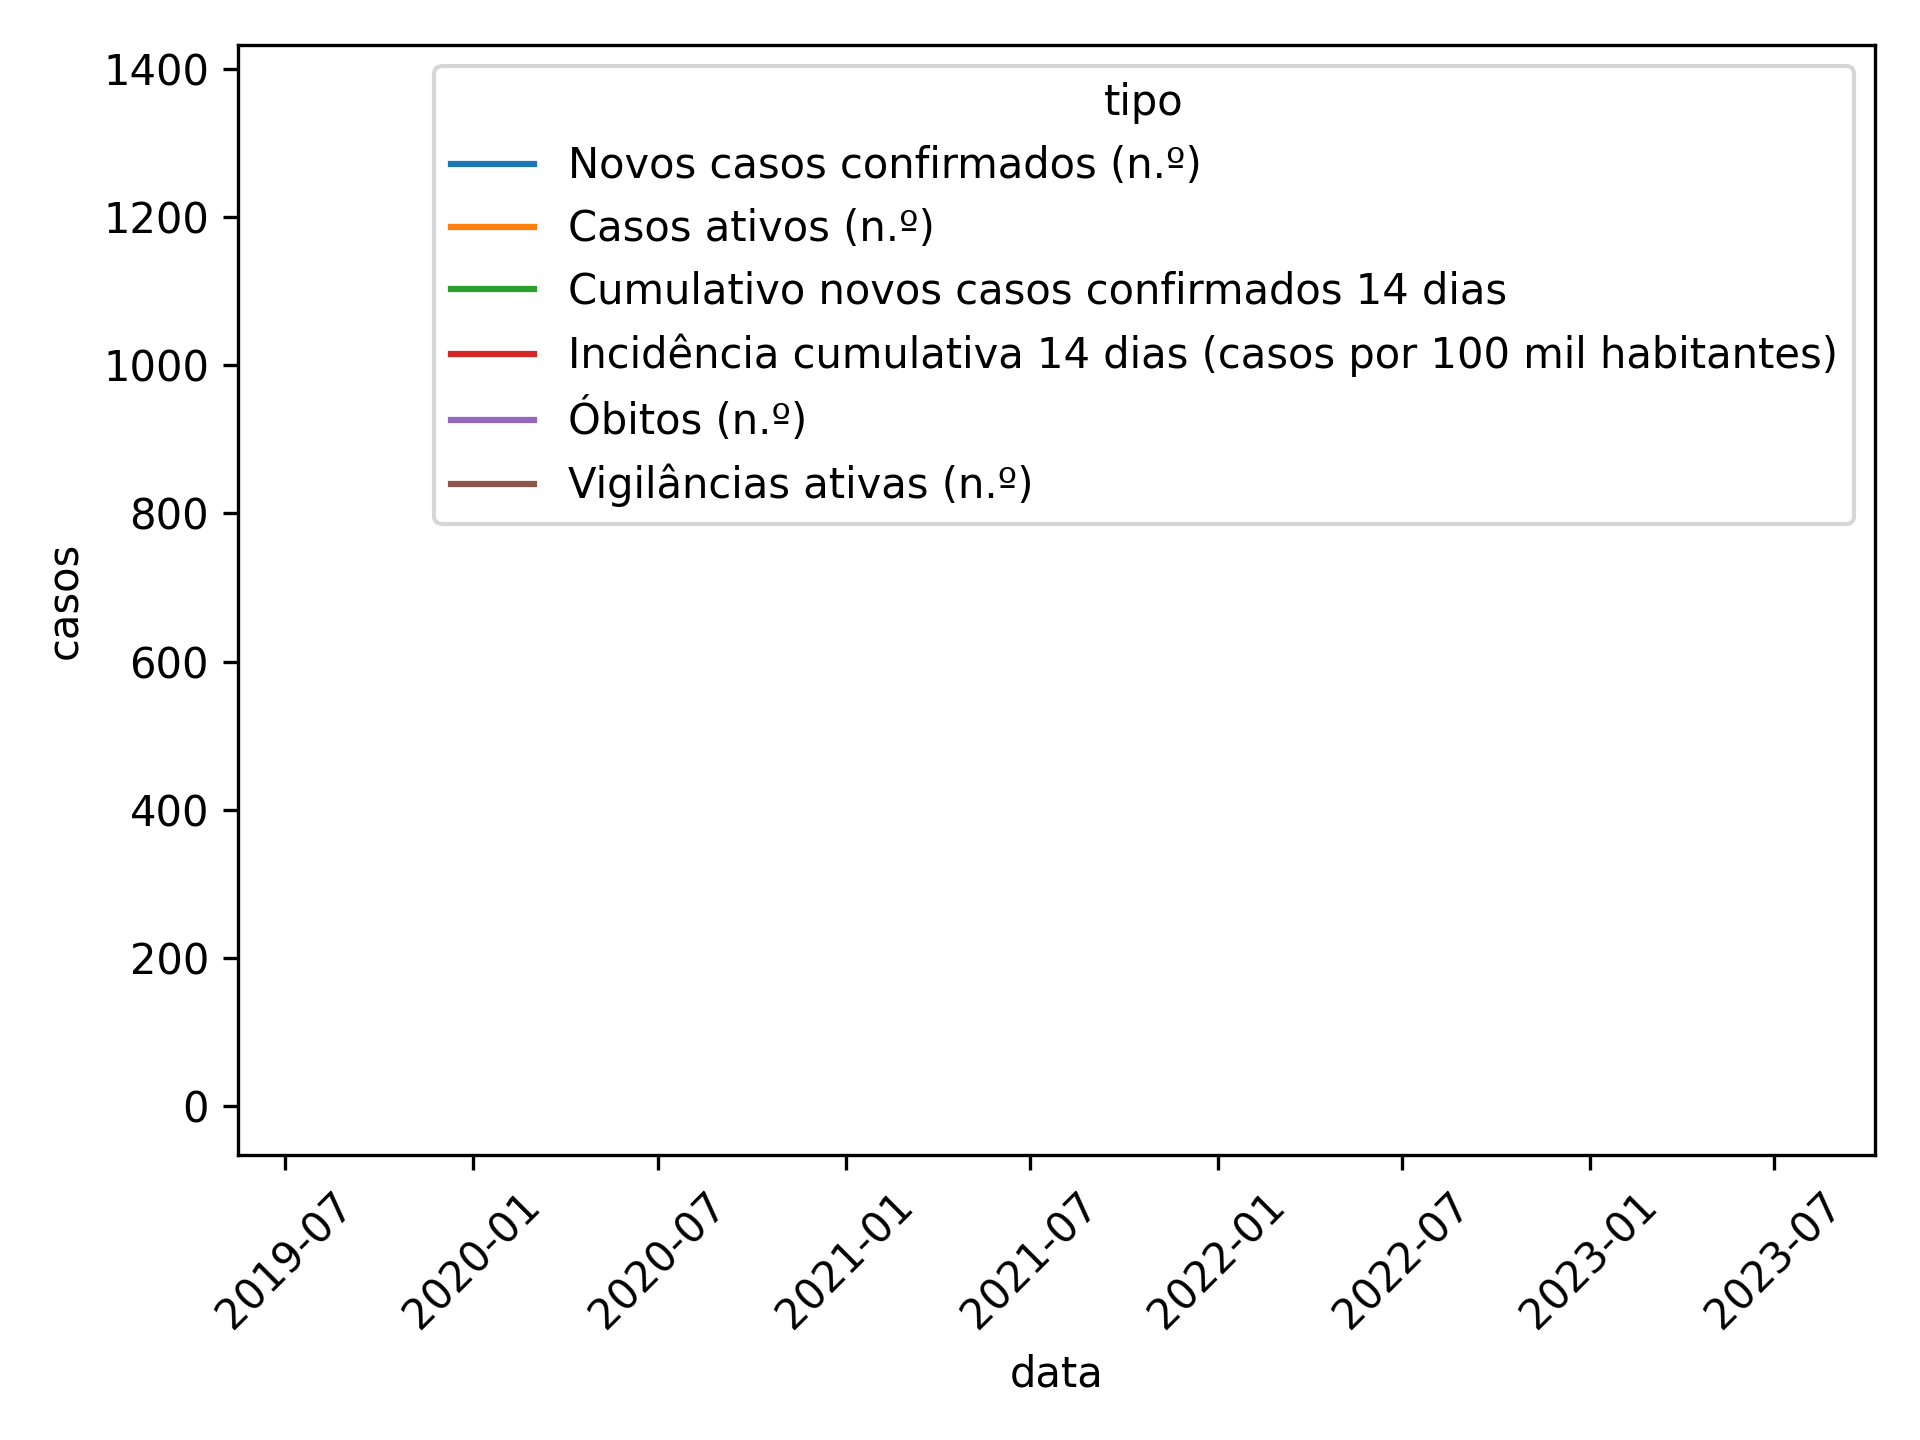
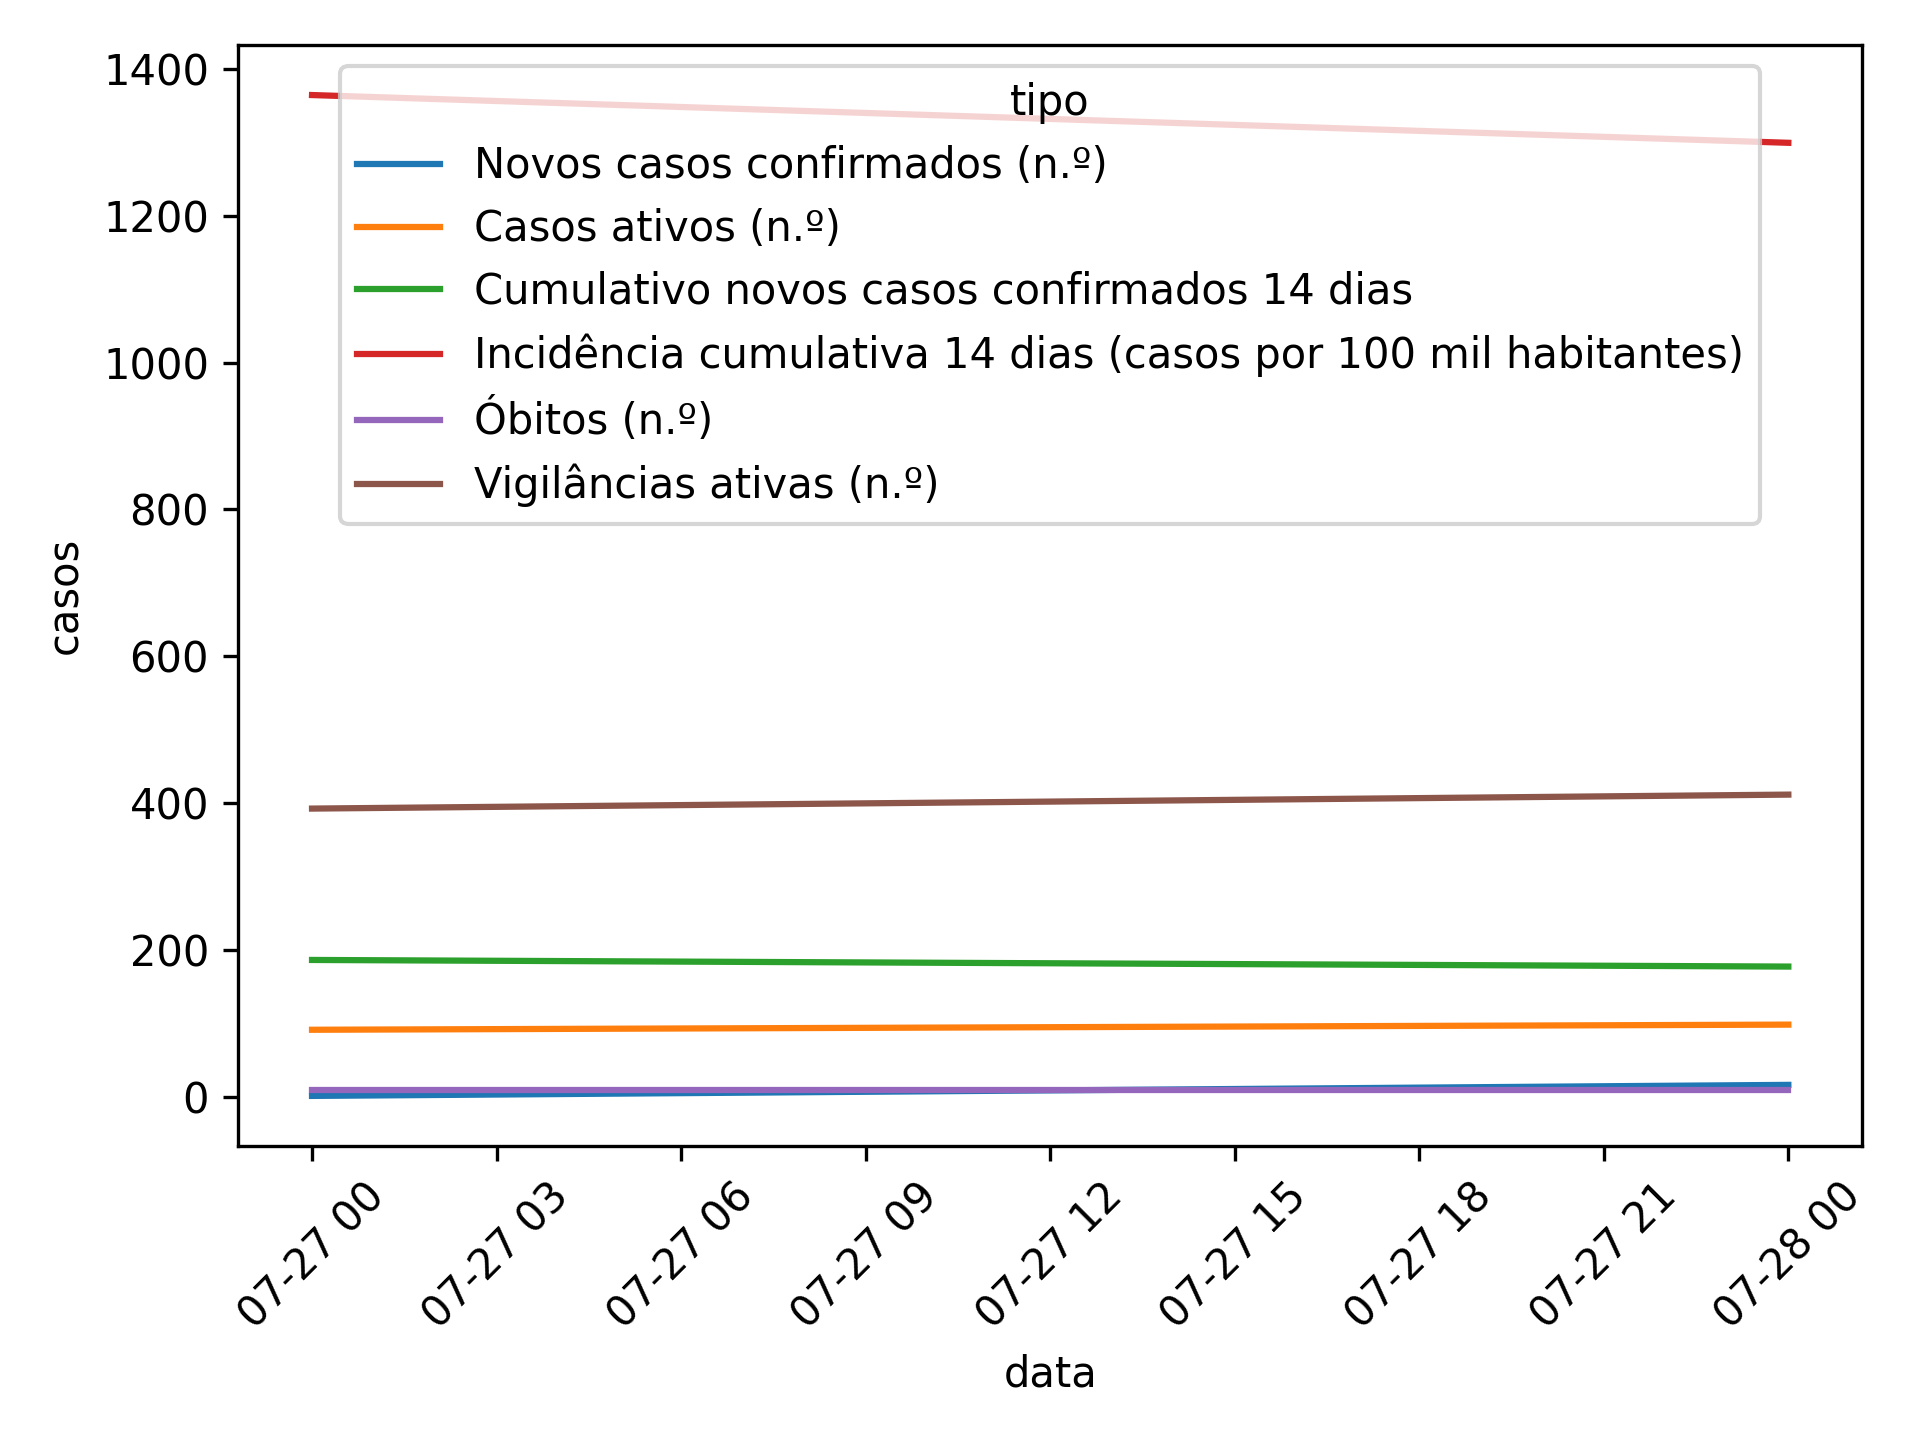
Apply automatic changes

diff --git a/README.md b/README.md
@@ -3,3 +3,4 @@
 | data       |   Novos casos confirmados (n.º) |   Casos ativos (n.º) |   Cumulativo novos casos confirmados 14 dias |   Incidência cumulativa 14 dias (casos por 100 mil habitantes) |   Óbitos (n.º) |   Vigilâncias ativas (n.º) |
 |:-----------|--------------------------------:|---------------------:|---------------------------------------------:|---------------------------------------------------------------:|---------------:|---------------------------:|
 | 27-07-2021 |                               2 |                   92 |                                          187 |                                                           1364 |             10 |                        393 |
+| 28-07-2021 |                              17 |                   99 |                                          178 |                                                           1299 |             10 |                        412 |
